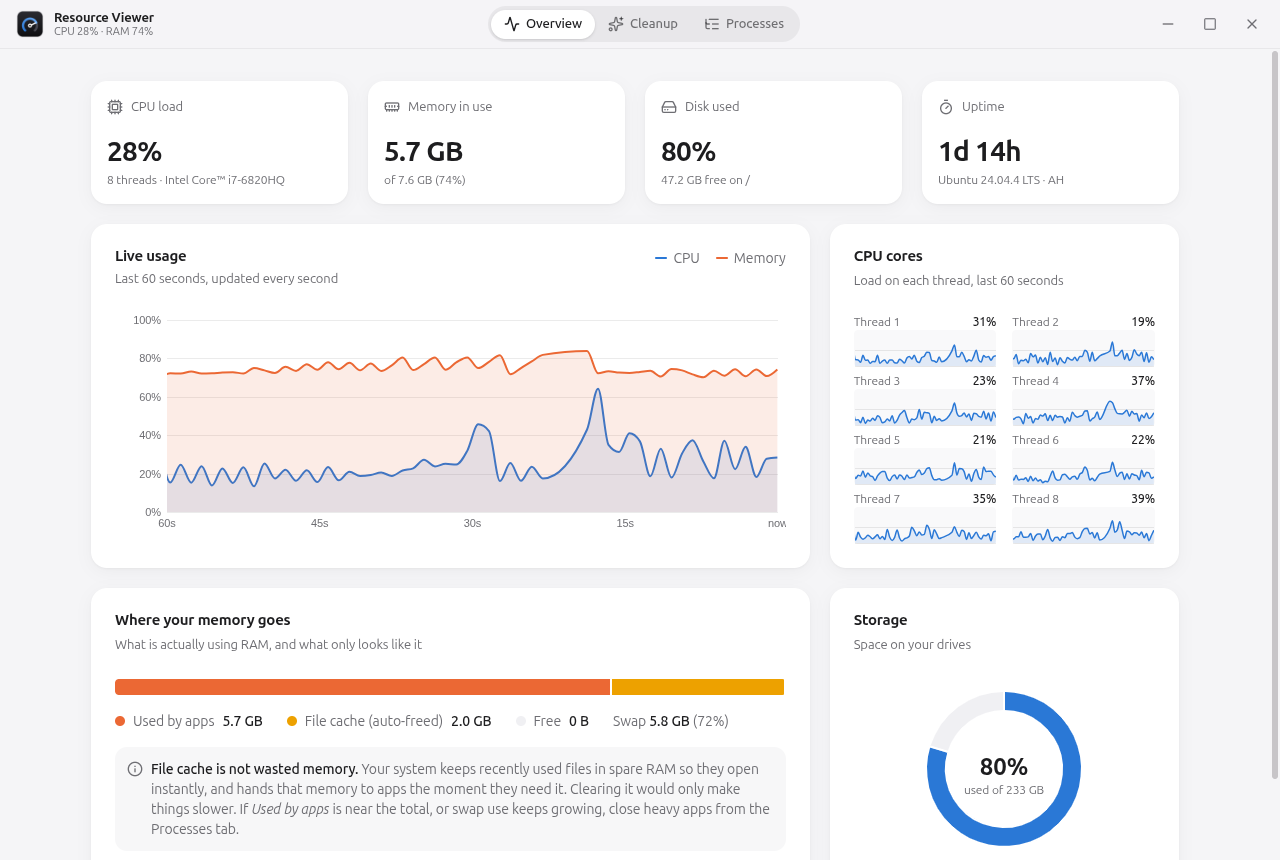
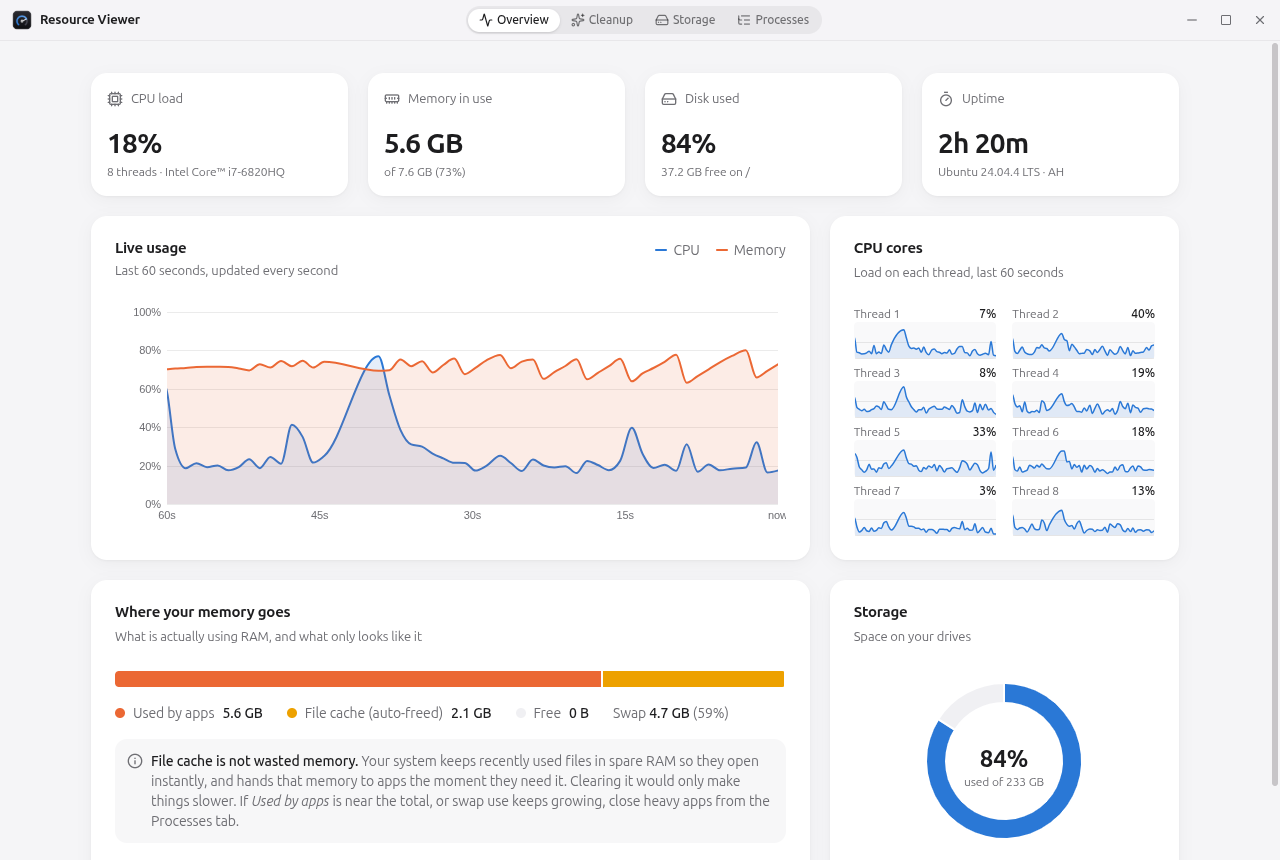
Update README and screenshots for the Storage tab

diff --git a/README.md b/README.md
@@ -24,6 +24,7 @@ pre-selects what is genuinely safe.
 
 - **Honest cleanup.** Each item explains *what it is*, *what you gain* and *what you might lose*, with a clear risk level.
 - **Live system view.** CPU, memory, per-thread load, disks and running apps, updated in real time.
+- **Storage map.** A zoomable sunburst of any folder or the whole disk, to find what fills your drive.
 - **Safe by design.** Strict allow-list, no symlink following, in-use files skipped, nothing touched without confirmation.
 - **Native feel.** A minimal interface that follows your system's light or dark appearance.
 
@@ -73,6 +74,16 @@ The full catalogue for each platform lives in [`src/main/targets.ts`](src/main/t
 
 </details>
 
+### Storage
+
+<img src="docs/screenshots/storage.png" width="860" alt="Storage map: a sunburst of the /usr folder" />
+
+- A sunburst map of your home folder, the whole disk or any folder you choose: each ring is one level deeper
+- Click a ring to zoom into that folder, click the centre to go back up; zooming is animated at 60 fps
+- The side panel lists the biggest items with their size and share; open any of them in your file manager
+- Read-only: it never changes or deletes anything. It does not follow symbolic links or cross into other drives, and hard-linked files are counted once
+- Items under 1 MB are grouped into one "smaller items" slice per folder, so even a million files stay fast to draw
+
 ### Processes
 
 <img src="docs/screenshots/processes.png" width="860" alt="Processes" />
@@ -85,17 +96,21 @@ The full catalogue for each platform lives in [`src/main/targets.ts`](src/main/t
 
 Download the file for your platform from the [latest release](https://github.com/thealihamza04/Resource-viewer/releases/latest).
 
-| Platform | File | Install |
-|---|---|---|
-| **Windows 10 / 11** | `ResourceViewer-Setup.exe` | Run the installer. Adds Start-menu and desktop shortcuts; uninstall from **Settings → Apps**. |
-| | `ResourceViewer-Portable.exe` | No installation — double-click to run. |
-| **Ubuntu / Debian** | `resource-viewer_amd64.deb` | `sudo apt install ./resource-viewer_amd64.deb`, then open **Resource Viewer** from the app menu. |
-| **Other Linux** | `ResourceViewer.AppImage` | `chmod +x ResourceViewer.AppImage` and run it. |
-| **macOS** | `Resource Viewer-<version>.dmg` | Open the disk image and drag the app to **Applications**. Must be built on a Mac — see below. |
+| Platform | File | Size | Install |
+|---|---|---|---|
+| **Windows 10 / 11** | `ResourceViewer-Setup.exe` | 113 MB | Run the installer. Adds Start-menu and desktop shortcuts; uninstall from **Settings → Apps**. |
+| | `ResourceViewer-Portable.exe` | 103 MB | No installation — double-click to run. |
+| **Ubuntu / Debian** | `resource-viewer_amd64.deb` | 100 MB | `sudo apt install ./resource-viewer_amd64.deb`, then open **Resource Viewer** from the app menu. |
+| **Other Linux** | `ResourceViewer.AppImage` | 99 MB | `chmod +x ResourceViewer.AppImage` and run it. |
+| **macOS** | `Resource Viewer-<version>.dmg` | | Open the disk image and drag the app to **Applications**. Must be built on a Mac — see below. |
 
 > [!NOTE]
 > The app is not code-signed yet. On first launch Windows shows **"Windows protected your PC"** —
 > choose **More info → Run anyway**. On macOS, right-click the app and choose **Open**.
+
+**Why about 100 MB?** Resource Viewer's own code is under 3 MB. The rest is Electron's
+Chromium engine, which every Electron app ships (VS Code, Discord and Slack too). Builds
+include only the English locale and use maximum compression to keep downloads small.
 
 ## Safety
 
@@ -156,11 +171,14 @@ src/
 │   ├── targets.ts        Cleanup catalogue per platform, with gain / loss / risk text
 │   ├── cleaner.ts        Scanner and cleaner with the safety rules above
 │   ├── cleanWorker.ts    Runs scans and cleans on a worker thread
-│   └── jobs.ts           One job at a time; concurrent scans share a result
+│   ├── jobs.ts           One job at a time; concurrent scans share a result
+│   ├── diskmap.ts        Read-only folder walker for the storage map
+│   ├── storageWorker.ts  Runs the storage map scan on a worker thread
+│   └── storage.ts        Starts / stops map scans, reveals items in the file manager
 ├── preload/              Typed, context-isolated bridge (window.api)
 ├── shared/               Types shared by every process
 └── renderer/             React interface
-    ├── features/         Overview, Cleanup, Processes
+    ├── features/         Overview, Cleanup, Storage (canvas sunburst), Processes
     └── components/       LiveChart (D3 on canvas), window controls, shadcn/ui
 ```
 
@@ -168,7 +186,13 @@ src/
 thread — about 3 seconds for 400,000 files, versus roughly a minute with one
 asynchronous call per file — so the interface never blocks. Live charts are drawn with
 D3 onto a `<canvas>` on each animation frame, without re-rendering React, and pause when
-the window is hidden.
+the window is hidden. The storage sunburst is laid out with `d3-hierarchy` and also drawn
+on a canvas, so zooming through tens of thousands of folders stays at 60 fps.
+
+**Resource use.** With the window open the app uses about 160 MB of memory and around 3% of
+one CPU core, and close to 0% when minimised. Chart history is capped at the last minute
+and the process list is replaced on every poll rather than kept, so memory does not grow
+when the app is left running for hours.
 
 **Security.** The renderer runs sandboxed with context isolation and no Node.js access,
 under a strict Content Security Policy.
@@ -179,7 +203,7 @@ under a strict Content Security Policy.
 |---|---|
 | Shell | Electron 45, electron-vite, electron-builder |
 | Interface | React 19, TypeScript, Tailwind CSS 4, shadcn/ui |
-| Charts | D3 (live canvas charts), Recharts via shadcn/ui charts |
+| Charts | D3 (live canvas charts, `d3-hierarchy` storage sunburst), Recharts via shadcn/ui charts |
 | System data | systeminformation |
 
 ## App icon
